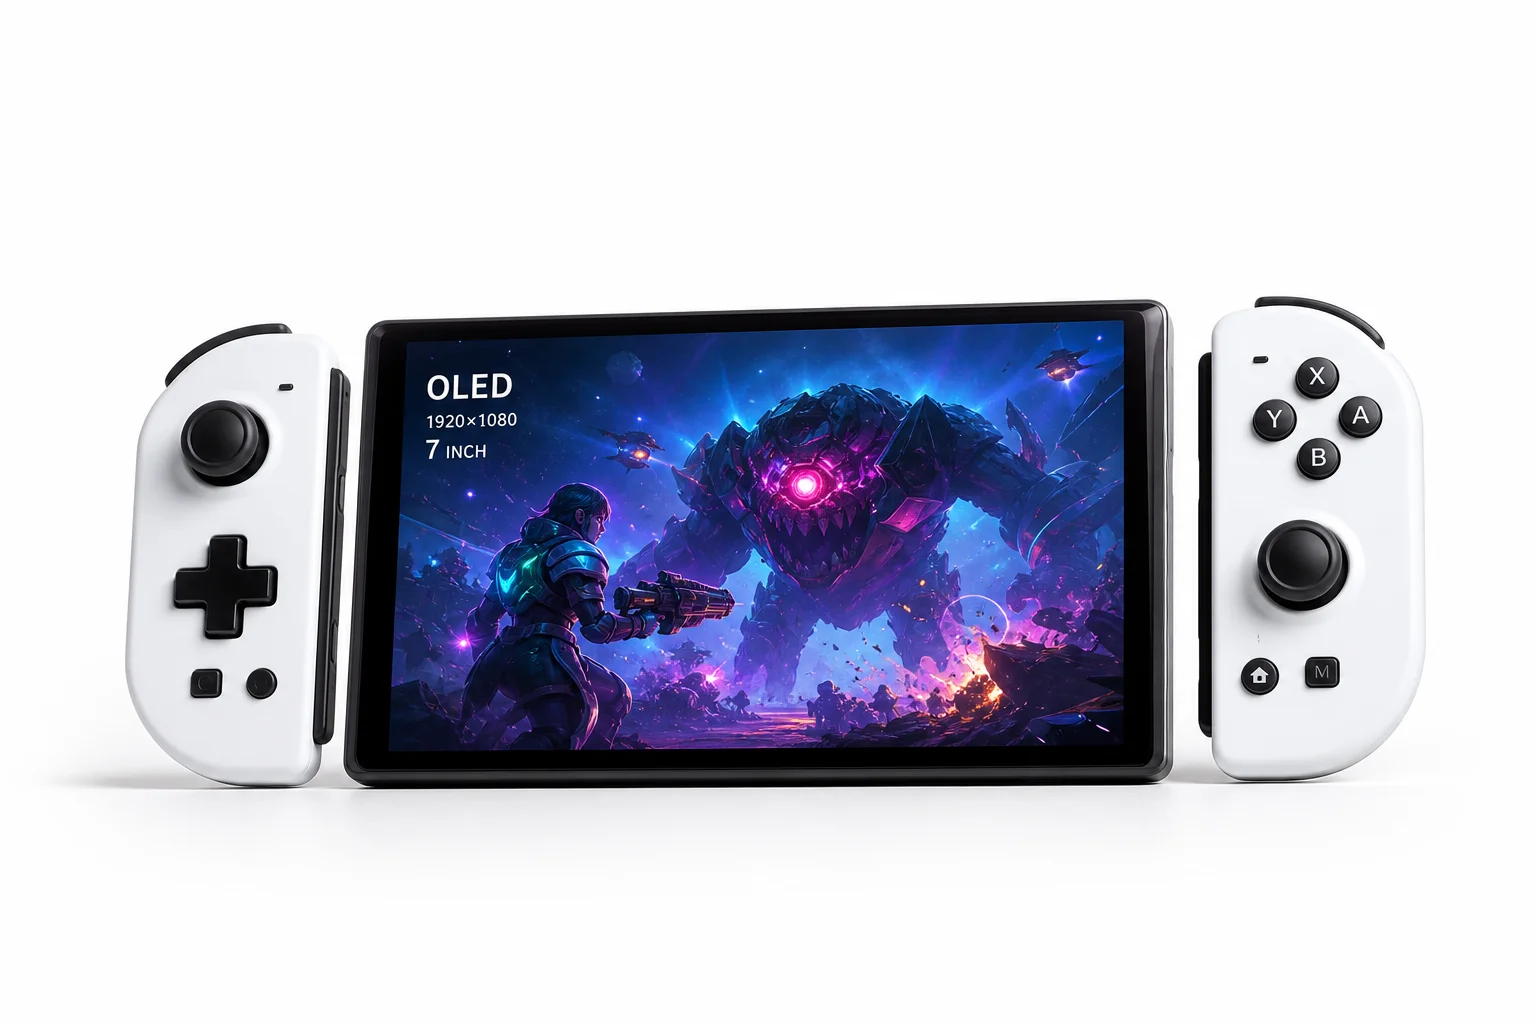
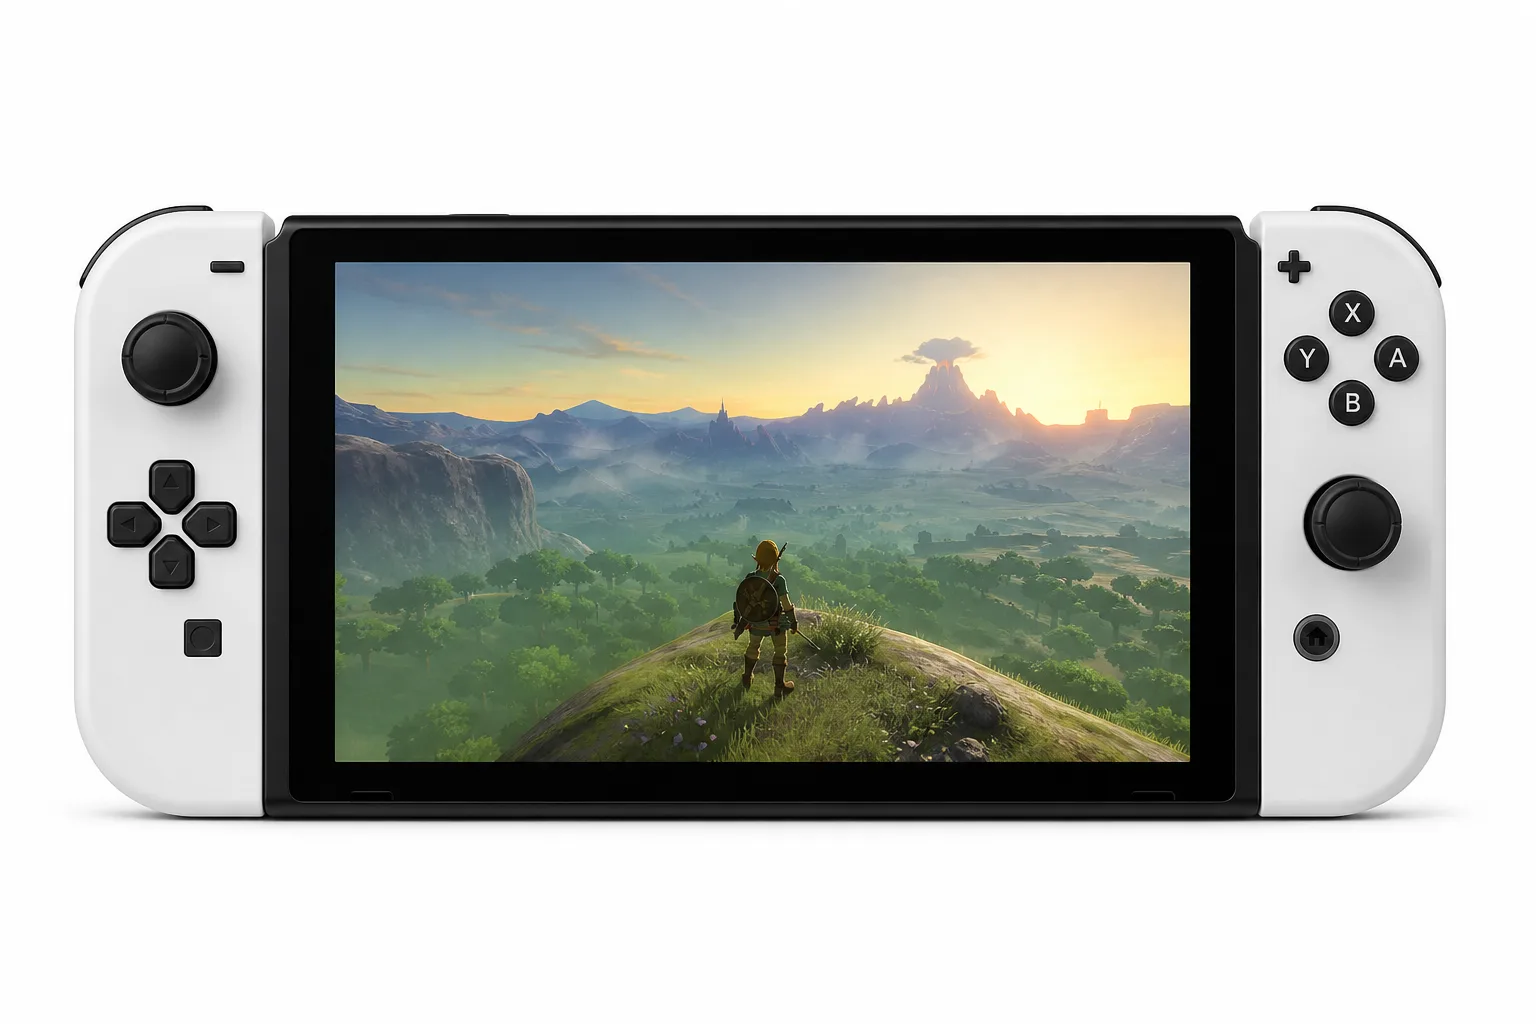
Regenerate nine incorrect demo device product photos.
Replace Dyson, Sonos, Yale lock, fridge, robot vacuum, Switch OLED, Nest, and LG washer/dryer assets with clearer product-accurate images.

diff --git a/docs/demo-device-images-todo.md b/docs/demo-device-images-todo.md
@@ -9,9 +9,17 @@ Public assets: `/public/demo/devices/*.webp`
 | Device | Problem | Resolution |
 |--------|---------|------------|
 | Xbox Series X | PNG showed a PlayStation 5 | Replaced with Xbox Series X product photo |
-| Nintendo Switch OLED | PNG showed retail packaging box | Replaced with handheld console product photo |
 | Samsung Frame TV | PNG showed generic black TV | Replaced with Samsung The Frame art-mode TV |
 | Security Cameras | PNG showed Arlo 3-pack retail box | Replaced with single outdoor camera product photo |
+| Air Purifier (Dyson) | Stale/mismatched product shot | Regenerated Dyson Purifier Cool tower |
+| Sonos Beam | Stale/mismatched product shot | Regenerated black Beam soundbar |
+| Yale Smart Lock | In-door lifestyle shot | Regenerated isolated Assure Lock product photo |
+| Samsung Refrigerator | Stale Family Hub shot | Regenerated stainless Family Hub fridge |
+| Robot Vacuum Dock | In-room lifestyle shot | Regenerated Roborock dock + robot product photo |
+| Nintendo Switch OLED | AI-looking detached Joy-Cons | Regenerated handheld with Joy-Cons attached |
+| Nest Thermostat | Wall-mounted lifestyle shot | Regenerated isolated Nest dial product photo |
+| LG Washer | Dark graphite finish mismatch | Regenerated white ThinQ front-load washer |
+| LG Dryer | AI artifacts / mismatched look | Regenerated white ThinQ front-load dryer |
 
 ## Remaining assets to review (optional quality pass)
 
